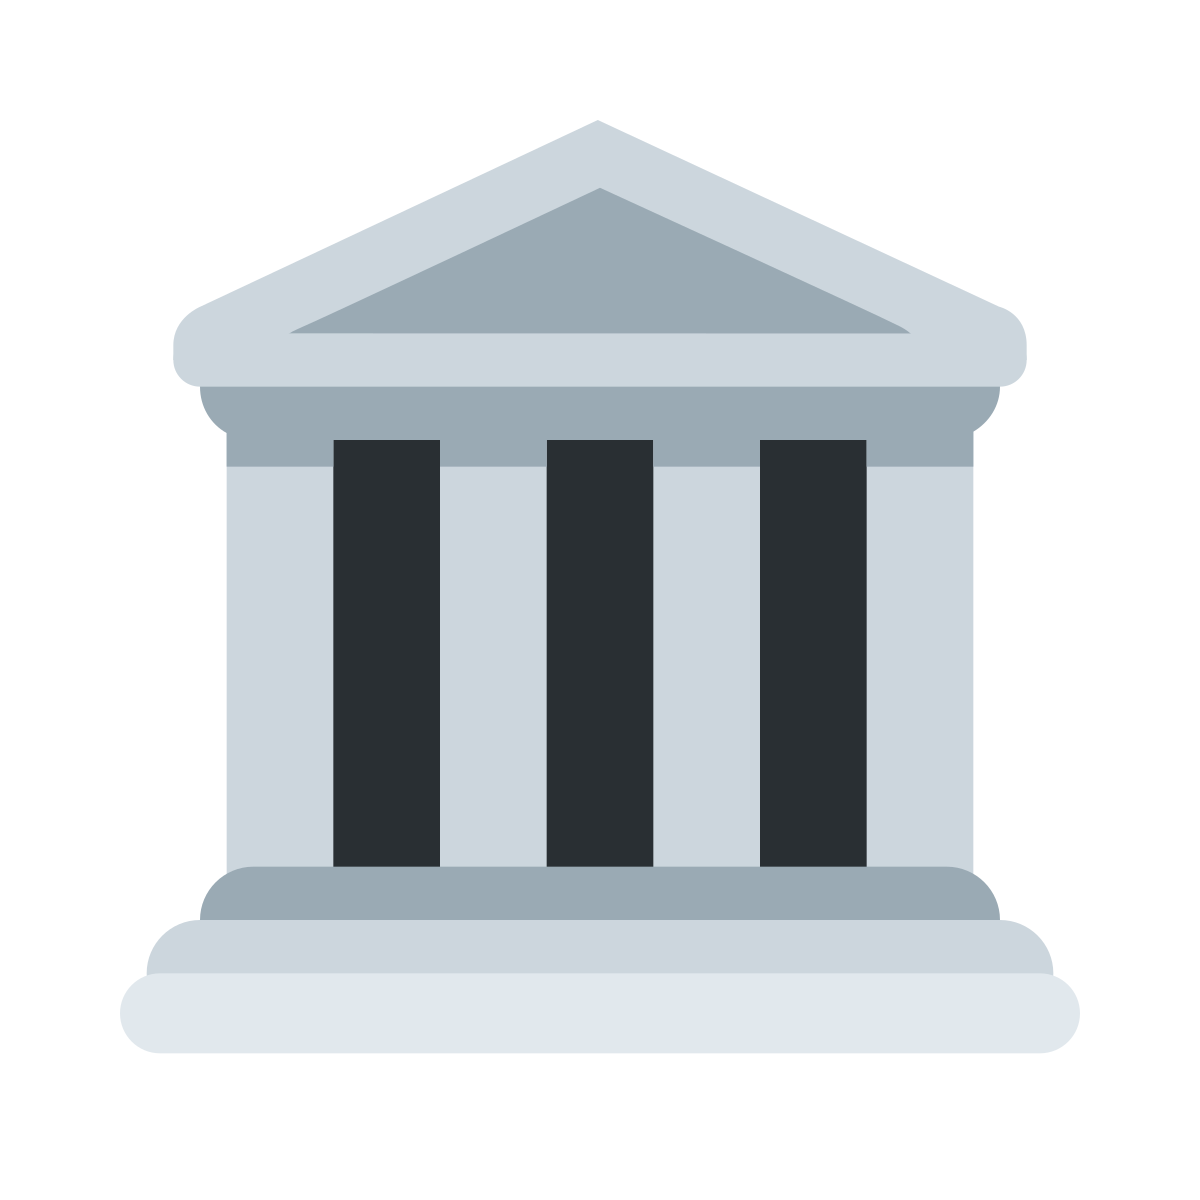
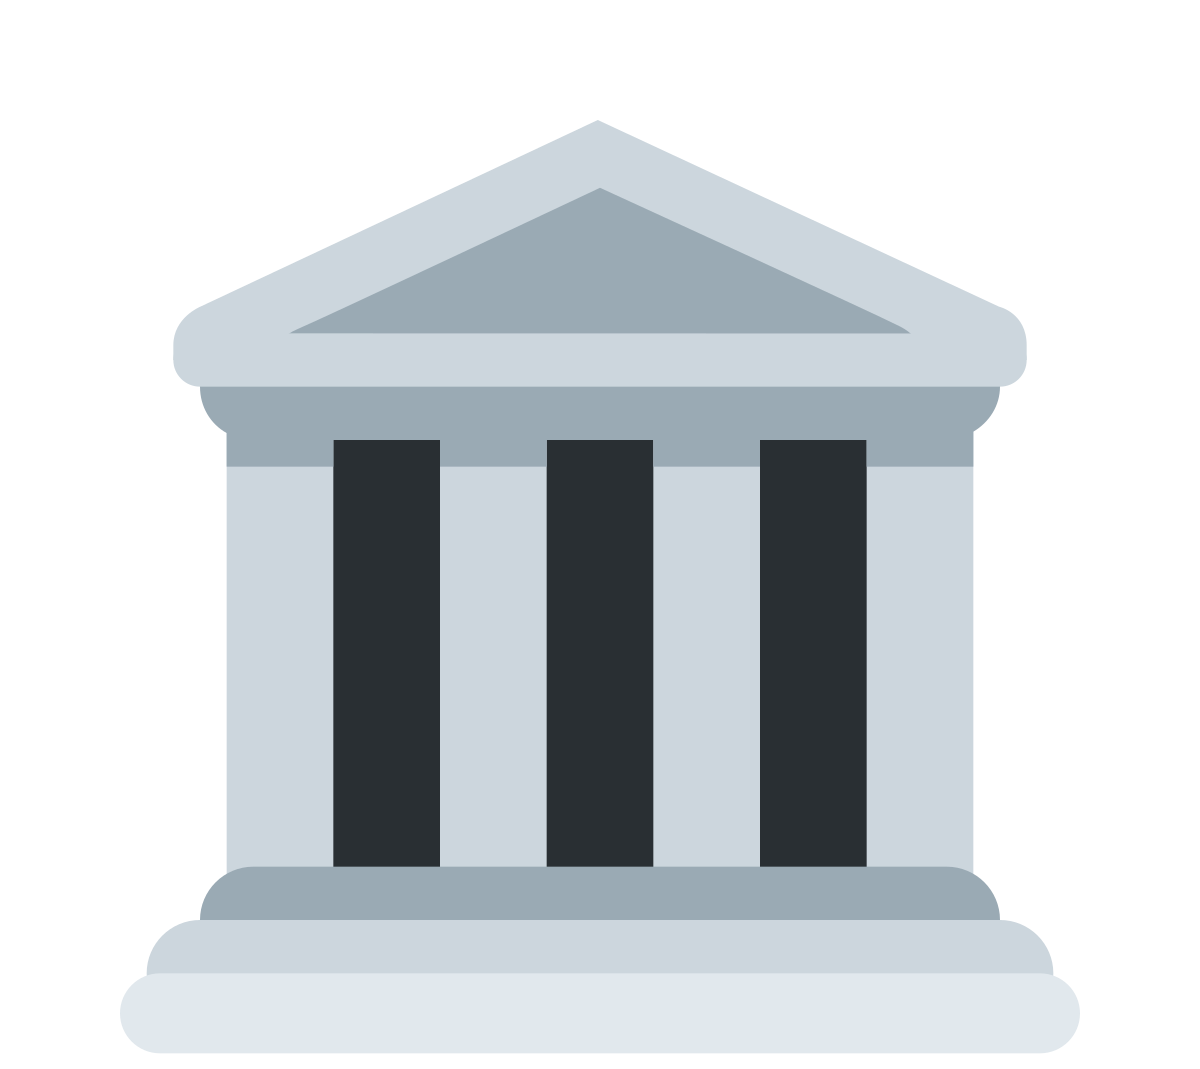
new version

Changed region(s): [[0.0925, 0.71, 0.925, 0.9878], [0.1233, 0.0926, 0.8633, 0.463]]

diff --git a/index.html b/index.html
@@ -145,6 +145,7 @@
       display: flex;
       flex-direction: column;
       gap: 0.6rem;
+      text-align: center;
     }
 
     .photo-tile .photo-img {
@@ -292,7 +293,7 @@
 
     ol.compact li,
     ul.compact li {
-      margin-bottom: 0.4rem;
+      margin-bottom: 0.8rem;
       font-size: 1.3rem;
     }
 
@@ -303,9 +304,30 @@
 
     .two-col {
       display: grid;
-      grid-template-columns: 1fr 1fr;
+      grid-template-columns: auto 1px auto;
+      justify-content: space-around;
       gap: 1.3rem;
-      align-items: start;
+      align-items: stretch;
+    }
+
+    .two-col::before {
+      content: "";
+      grid-column: 2;
+      grid-row: 1;
+      background: var(--card-border);
+    }
+
+    .two-col > div:nth-child(1) {
+      grid-column: 1;
+      grid-row: 1;
+    }
+
+    /* padding keeps the hanging list bullets inside the column, so the
+       divider is visually centered between the two lists */
+    .two-col > div:nth-child(2) {
+      grid-column: 3;
+      grid-row: 1;
+      padding-left: 1.2rem;
     }
 
     code {
@@ -375,41 +397,57 @@
       padding: 1.3rem 1.6rem;
     }
 
-    /* generic left-to-right chain diagram */
+    /* numbered card chain: zigzag, odd cards in row 1 (1-3-5), even in row 2 (2-4) */
     .chain {
-      display: flex;
-      align-items: stretch;
-      gap: 0.7rem;
-      flex-wrap: wrap;
-      margin-top: 1.2rem;
+      display: grid;
+      grid-template-columns: repeat(6, 1fr);
+      column-gap: 2.4rem;
+      row-gap: 0.9rem;
+      margin-top: 2rem;
     }
 
     .chain .card {
-      flex: 1;
-      min-width: 130px;
+      position: relative;
+      box-sizing: border-box;
+      grid-column: span 2;
+      justify-self: center;
+      width: 90%;
       text-align: center;
       display: flex;
       flex-direction: column;
       justify-content: center;
+      padding: 1.6rem 1rem 1.2rem;
     }
 
-    .chain .arrow {
-      font-size: 1.4rem;
-      color: var(--accent);
-      flex: 0 0 auto;
-      align-self: center;
-    }
+    .chain .card:nth-child(1) { grid-column: 1 / span 2; grid-row: 1; }
+    .chain .card:nth-child(2) { grid-column: 2 / span 2; grid-row: 2; }
+    .chain .card:nth-child(3) { grid-column: 3 / span 2; grid-row: 1; }
+    .chain .card:nth-child(4) { grid-column: 4 / span 2; grid-row: 2; }
+    .chain .card:nth-child(5) { grid-column: 5 / span 2; grid-row: 1; }
 
-    .chain .card {
-      padding: 0.8rem;
+    .chain .badge {
+      position: absolute;
+      top: -0.9rem;
+      left: 50%;
+      transform: translateX(-50%);
+      width: 2.2rem;
+      height: 2.2rem;
+      border-radius: 50%;
+      background: var(--accent);
+      color: #fff;
+      font-weight: 700;
+      font-size: 1.15rem;
+      display: flex;
+      align-items: center;
+      justify-content: center;
     }
 
     .chain .card h4 {
-      font-size: 1.2rem;
+      font-size: 1.3rem;
     }
 
     .chain .card p {
-      font-size: 0.95rem;
+      font-size: 1rem;
     }
 
     /* zigzag flow diagram: rows alternate direction, joined by a turn arrow */
@@ -552,8 +590,8 @@
       <!-- ============ TITLE ============ -->
       <section>
         <h1 style="font-size: 5.2rem;">Tour<span class="gradient-text">Builder</span></h1>
-        <p class="msg" style="font-size: 1.7rem; line-height: 1.4;">An AR tour-guide app built as ten independent
-          components:<br>create a tour, add waypoints with assets, share it via QR code.</p>
+        <p class="msg" style="font-size: 1.7rem; line-height: 1.4;">AR tour-guide app:
+          <br>create a tour, add waypoints, share it via QR code.</p>
         <p class="small" style="margin-top:1.5rem;">Maria Elia &nbsp;·&nbsp; Nicolas Hellthaler &nbsp;·&nbsp;
           Location-Based WebXR Lab, Team 2</p>
       </section>
@@ -610,26 +648,27 @@
         <h2>Our Agent-Guided Workflow</h2>
         <div class="chain">
           <div class="card fragment fade-up" data-fragment-index="0">
+            <div class="badge">1</div>
             <h4>Brainstorming with LLM</h4>
             <p>/grill-me /superpowers:<wbr>brainstorming</p>
           </div>
-          <div class="arrow fragment fade-up" data-fragment-index="1">→</div>
           <div class="card fragment fade-up" data-fragment-index="1">
+            <div class="badge">2</div>
             <h4>Review and iterate plan</h4>
             <p>stronger model</p>
           </div>
-          <div class="arrow fragment fade-up" data-fragment-index="2">→</div>
           <div class="card fragment fade-up" data-fragment-index="2">
+            <div class="badge">3</div>
             <h4>Build Prototypes</h4>
             <p>Gemini, Claude, ChatGPT</p>
           </div>
-          <div class="arrow fragment fade-up" data-fragment-index="3">→</div>
           <div class="card fragment fade-up" data-fragment-index="3">
+            <div class="badge">4</div>
             <h4>Create Final Plan</h4>
             <p>best of all prototypes</p>
           </div>
-          <div class="arrow fragment fade-up" data-fragment-index="4">→</div>
           <div class="card fragment fade-up" data-fragment-index="4">
+            <div class="badge">5</div>
             <h4>Test-Driven-Development</h4>
             <p>additional e2e-Tests</p>
           </div>
@@ -696,29 +735,34 @@
             allow="camera; geolocation; xr-spatial-tracking; autoplay"></iframe></div>
       </section>
 
+      <!-- PLACEHOLDER: replace with real content -->
+      <section data-chapter-num="04" data-chapter-title="Tourbuilder App">
+        <p class="msg">Walked tour highlight video</p>
+      </section>
+
       <!-- ============ CHAPTER 5: CHALLENGES & WHAT WORKED WELL ============ -->
       <section class="chapter-divider" data-chapter-num="05" data-chapter-title="Challenges &amp; Enablers">
       </section>
 
       <section data-chapter-num="05" data-chapter-title="Challenges &amp; Enablers">
         <div class="two-col">
-          <div class="fragment fade-up" data-fragment-index="0">
+          <div>
             <h4 style="color:#f87171; font-size:2rem;">Challenges</h4>
-            <ul class="compact">
+            <ul class="compact fragment fade-up" data-fragment-index="0">
+              <li>Assessing component scope</li>
               <li>No AR-capable phone</li>
-              <li>Building components without knowing the big picture</li>
-              <li>HTML vs. Canvas Text</li>
-              <li>Integrating third-party services (DropBox, OneDrive)</li>
+              <li>HTML vs. Canvas text</li>
+              <li>Integrating third-party services</li>
             </ul>
           </div>
-          <div class="fragment fade-up" data-fragment-index="1">
+          <div>
             <h4 style="color:#4ade80; font-size:2rem;">Enablers</h4>
-            <ul class="compact">
+            <ul class="compact fragment fade-up" data-fragment-index="1">
               <li>Solid shared contract saved LOTS of time</li>
-              <li>Conventional Commits, Feature branches</li>
+              <li>Conventional commits, feature branches</li>
               <li>Stay up-to-date with upstream</li>
-              <li>Skills<br>/grill-me, /superpowers, /impeccable, /improve-codebase-architecture, /caveman</li>
-              <li>GitHub Pages Deployment</li>
+              <li>Skills for specific tasks</li>
+              <li>GitHub Pages deployment</li>
             </ul>
           </div>
         </div>
@@ -731,13 +775,10 @@
         <h2>What did we achieve?</h2>
         <ul class="compact fragment fade-up" data-fragment-index="0">
           <li>AR tour guide: author a tour, share it via QR code, walk it in AR</li>
-          <li>Agent-guided, test-driven workflow with replayed real walks as e2e tests</li>
           <li>Ten isolated components around one shared tour contract</li>
+          <li>Agent-guided, test-driven workflow with replayed real walks as e2e tests</li>
         </ul>
         <div class="card-grid four fragment fade-up" data-fragment-index="1">
-          <div class="card stat"><span class="big">10</span>
-            <p>isolated, tested components</p>
-          </div>
           <div class="card stat"><span class="big">124</span>
             <p>commits, ~10 weeks</p>
           </div>
